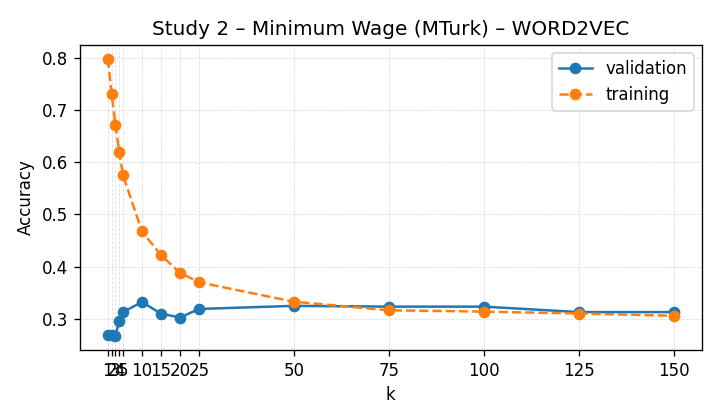
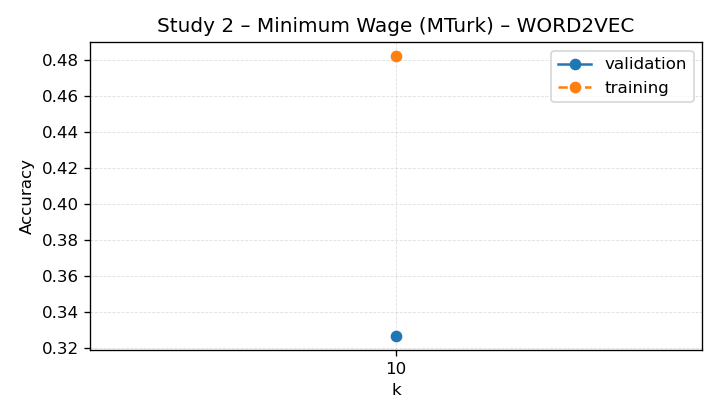
changes

diff --git a/src/open_r1/shared.py b/src/open_r1/shared.py
@@ -596,16 +596,21 @@ def make_grpo_execute_kwargs(
     if namespace is not None:
         payload = collect_grpo_pipeline_kwargs(namespace)
     else:
-        payload = {
-            "component_factory": component_factory,
-            "reward_funcs": reward_funcs,
-            "tokenizer": tokenizer,
-            "dataset": dataset,
-            "script_args": script_args,
-            "training_args": training_args,
-            "model_args": model_args,
-            "logger": logger,
-        }
+        payload = {}
+
+    explicit_overrides = {
+        "component_factory": component_factory,
+        "reward_funcs": reward_funcs,
+        "tokenizer": tokenizer,
+        "dataset": dataset,
+        "script_args": script_args,
+        "training_args": training_args,
+        "model_args": model_args,
+        "logger": logger,
+    }
+    for key, value in explicit_overrides.items():
+        if value is not None:
+            payload[key] = value
     payload.update({
         "prefix": prefix,
         "evaluate_fn_factory": evaluate_fn_factory,

diff --git a/src/knn/pipeline.py b/src/knn/pipeline.py
@@ -26,7 +26,6 @@ import logging
 from typing import Dict, List, Mapping, Sequence, TYPE_CHECKING
 
 from common.pipeline_stage import (
-    build_sweep_partition,
     SweepPartitionExecutors,
     dispatch_cli_partitions,
     emit_stage_dry_run_summary,

diff --git a/src/xgb/pipeline.py b/src/xgb/pipeline.py
@@ -26,7 +26,6 @@ from pathlib import Path
 from typing import Dict, List, Mapping, Sequence
 
 from common.pipeline_stage import (
-    build_sweep_partition,
     SweepPartitionExecutors,
     dispatch_cli_partitions,
     emit_stage_dry_run_summary,

diff --git a/src/open_r1/grail.py b/src/open_r1/grail.py
@@ -648,6 +648,7 @@ def main(
         **make_grpo_execute_kwargs(
             prefix="grail",
             evaluate_fn_factory=_gail_eval_factory,
+            dataset=dataset,
             namespace=locals(),
         )
     )

diff --git a/src/open_r1/grpo.py b/src/open_r1/grpo.py
@@ -196,6 +196,7 @@ def main(
     execute_grpo_pipeline(
         **make_grpo_execute_kwargs(
             prefix="grpo",
+            dataset=dataset,
             namespace=locals(),
         )
     )

diff --git a/reports/knn/next_video/README.md b/reports/knn/next_video/README.md
@@ -15,7 +15,7 @@ This report summarises the slate-ranking KNN model that predicts the next clicke
 | Feature space | Weighted accuracy ↑ | Δ vs baseline ↑ | Random ↑ | Eligible | Studies |
 | --- | ---: | ---: | ---: | ---: | ---: |
 | TFIDF | 0.454 | +0.008 | 0.287 | 1,219 | 2 |
-| WORD2VEC | 0.246 | -0.294 | 0.326 | 548 | 1 |
+| WORD2VEC | 0.290 | -0.155 | 0.287 | 1,219 | 2 |
 
 Best-performing feature space: **TFIDF** with weighted accuracy 0.454 across 1,219 eligible slates (2 studies).
 
@@ -31,6 +31,7 @@ Best-performing feature space: **TFIDF** with weighted accuracy 0.454 across 1,2
 | Study | Accuracy ↑ | 95% CI | Δ vs baseline ↑ | Baseline ↑ | Random ↑ | Best k | Eligible | Total |
 | --- | ---: | --- | ---: | ---: | ---: | ---: | ---: | ---: |
 | Study 1 – Gun Control (MTurk) | 0.246 | [0.213, 0.281] | -0.294 | 0.540 | 0.326 | 10 | 548 | 548 |
+| Study 2 – Minimum Wage (MTurk) | 0.326 | [0.290, 0.364] | -0.042 | 0.368 | 0.255 | 10 | 671 | 671 |
 
 ## Accuracy Curves
 
@@ -46,10 +47,14 @@ Best-performing feature space: **TFIDF** with weighted accuracy 0.454 across 1,2
 
 ![Accuracy curve](curves/word2vec/study1.png)
 
+### Study 2 – Minimum Wage (MTurk) (WORD2VEC)
+
+![Accuracy curve](curves/word2vec/study2.png)
+
 ## Observations
 
 - TFIDF: Study 1 – Gun Control (MTurk): 0.577 (baseline 0.540, Δ +0.036, k=10, eligible 548); Study 2 – Minimum Wage (MTurk): 0.353 (baseline 0.368, Δ -0.015, k=25, eligible 671); averages: mean Δ +0.011, mean random 0.291.
-- WORD2VEC: Study 1 – Gun Control (MTurk): 0.246 (baseline 0.540, Δ -0.294, k=10, eligible 548); averages: mean Δ -0.294, mean random 0.326.
+- WORD2VEC: Study 1 – Gun Control (MTurk): 0.246 (baseline 0.540, Δ -0.294, k=10, eligible 548); Study 2 – Minimum Wage (MTurk): 0.326 (baseline 0.368, Δ -0.042, k=10, eligible 671); averages: mean Δ -0.168, mean random 0.291.
 - Random values approximate the accuracy from uniformly guessing across the slate.
 
 Leave-one-study-out metrics were unavailable when this report was generated.

diff --git a/reports/knn/additional_features/README.md b/reports/knn/additional_features/README.md
@@ -20,6 +20,7 @@ Overview of the supplementary text columns appended to the viewer prompt alongsi
 | tfidf | Study 1 – Gun Control (MTurk) | `viewer_profile`, `state_text` |
 | tfidf | Study 2 – Minimum Wage (MTurk) | `viewer_profile`, `state_text` |
 | word2vec | Study 1 – Gun Control (MTurk) | `viewer_profile`, `state_text` |
+| word2vec | Study 2 – Minimum Wage (MTurk) | `viewer_profile`, `state_text` |
 
 ## Opinion Regression
 
